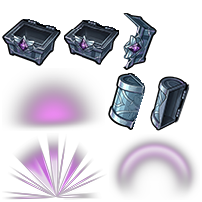
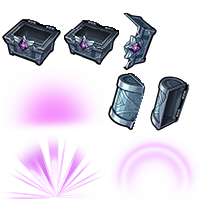
矿脉动画

Changed region(s): [[0.0297, 0.6832, 0.505, 1.0], [0.0594, 0.3861, 0.4752, 0.6535], [0.5644, 0.6832, 0.9802, 0.9505]]

diff --git a/assets/scripts/controller/props/veinProps.ts b/assets/scripts/controller/props/veinProps.ts
@@ -1,4 +1,4 @@
-import { _decorator, Component, Node } from 'cc';
+import { _decorator, Node, sp } from 'cc';
 import { gamePropsBase } from './gamePropsBase';
 import { configData } from '../../manager/configData';
 import { pData } from '../../manager/playerData';
@@ -6,10 +6,25 @@ import { playerMgr } from '../../manager/playerManager';
 import { produceType } from '../../UIPage/tips/produceTips';
 import { gm } from '../../manager/gm';
 import { roleState } from '../roleController';
+import { uiMgr } from '../../manager/UIManager';
+import { poolMgr } from '../../manager/poolManager';
+import { ccTools } from '../../extention/generalTools';
+import { spinePath } from '../../manager/pathConfig';
 const { ccclass, property } = _decorator;
 
 @ccclass('veinProps')
 export class veinProps extends gamePropsBase {
+    /**矿脉spine节点 */
+    private veinNode: Node = null;
+    /**当前矿脉spine路径 */
+    private veinSpinePath: string = "";
+
+    /**初始化道具的图片 */
+    initPropsImg() {
+        super.initPropsImg();
+        this.refreshVeinAnim();
+    }
+
     /**道具开始生效 */
     startProps() {
         this.startProduceCoin();
@@ -17,8 +32,14 @@ export class veinProps extends gamePropsBase {
 
     /**道具结束生效 */
     endProps() {
+        this.clearVeinNode();
         super.endProps();
         this.stopProduceCoin();
+    }
+
+    protected onDisable(): void {
+        super.onDisable();
+        this.clearVeinNode();
     }
 
     /**开始生产金币 */
@@ -53,6 +74,77 @@ export class veinProps extends gamePropsBase {
             pData.fixGameCoin(this.addNum);
         }
     }
-}
 
+    /**刷新矿脉动画 */
+    private refreshVeinAnim() {
+        let path = this.getVeinSpinePath();
+        if (!path) {
+            this.clearVeinNode();
+            return;
+        }
+
+        if (this.veinNode && this.veinNode.isValid && this.veinNode.parent && this.veinSpinePath == path) {
+            return;
+        }
+
+        if (this.veinNode && this.veinNode.isValid && this.veinNode.parent) {
+            this.veinSpinePath = path;
+            let skeleton = poolMgr.getGameNodeSkeleton(this.veinNode);
+            if (skeleton) {
+                this.playVeinAnim(skeleton, this.veinNode, path);
+            }
+            return;
+        }
+
+        this.clearVeinNode();
+        if (!uiMgr.gameItemPrefab || !this.img2?.node) {
+            return;
+        }
+
+        this.veinSpinePath = path;
+        this.veinNode = poolMgr.getGameNode(uiMgr.gameItemPrefab);
+        this.veinNode.name = "veinSpine";
+        this.img2.node.addChild(this.veinNode);
+
+        let skeleton = poolMgr.getGameNodeSkeleton(this.veinNode);
+        if (skeleton) {
+            this.playVeinAnim(skeleton, this.veinNode, path);
+        }
+    }
+
+    /**获取当前等级矿脉动画路径 */
+    private getVeinSpinePath() {
+        if (this.level == 1) {
+            return spinePath.silverVein;
+        }
+
+        if (this.level >= 2) {
+            return spinePath.goldVein;
+        }
+
+        return "";
+    }
+
+    /**播放矿脉animation循环动画 */
+    private async playVeinAnim(skeleton: sp.Skeleton, node: Node, path: string) {
+        skeleton.premultipliedAlpha = false;
+        let isLoaded = await ccTools.loadSpine(skeleton, path);
+        if (!isLoaded || !skeleton || !skeleton.isValid || this.veinNode != node || this.veinSpinePath != path) {
+            return;
+        }
+
+        skeleton.premultipliedAlpha = false;
+        skeleton.setAnimation(0, "animation", true);
+    }
+
+    /**清理矿脉spine节点 */
+    private clearVeinNode() {
+        if (this.veinNode && this.veinNode.isValid) {
+            poolMgr.putGameNode(this.veinNode);
+        }
+
+        this.veinNode = null;
+        this.veinSpinePath = "";
+    }
+}
 

diff --git a/assets/scripts/manager/pathConfig.ts b/assets/scripts/manager/pathConfig.ts
@@ -107,7 +107,7 @@ export enum spinePath {
     /**警示铃 */
     alarm = "spine/alarm/Bell",
     /**金矿 */
-    goldVein = "spine/goldVein/Rk",
+    goldVein = "spine/goldVein/RK",
     /**银矿 */
     silverVein = "spine/silverVein/YK",
     /**火焰锻造台 */